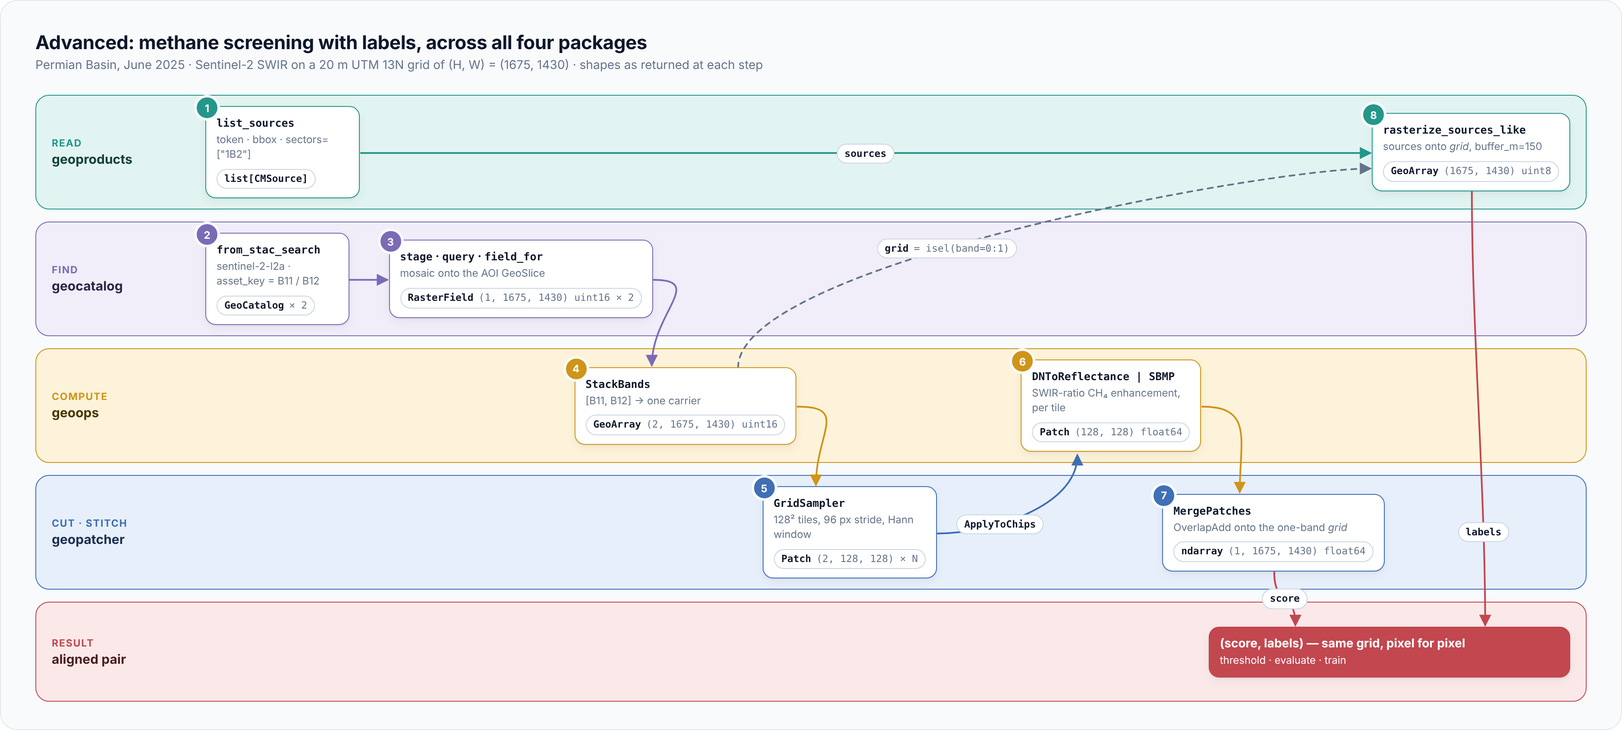
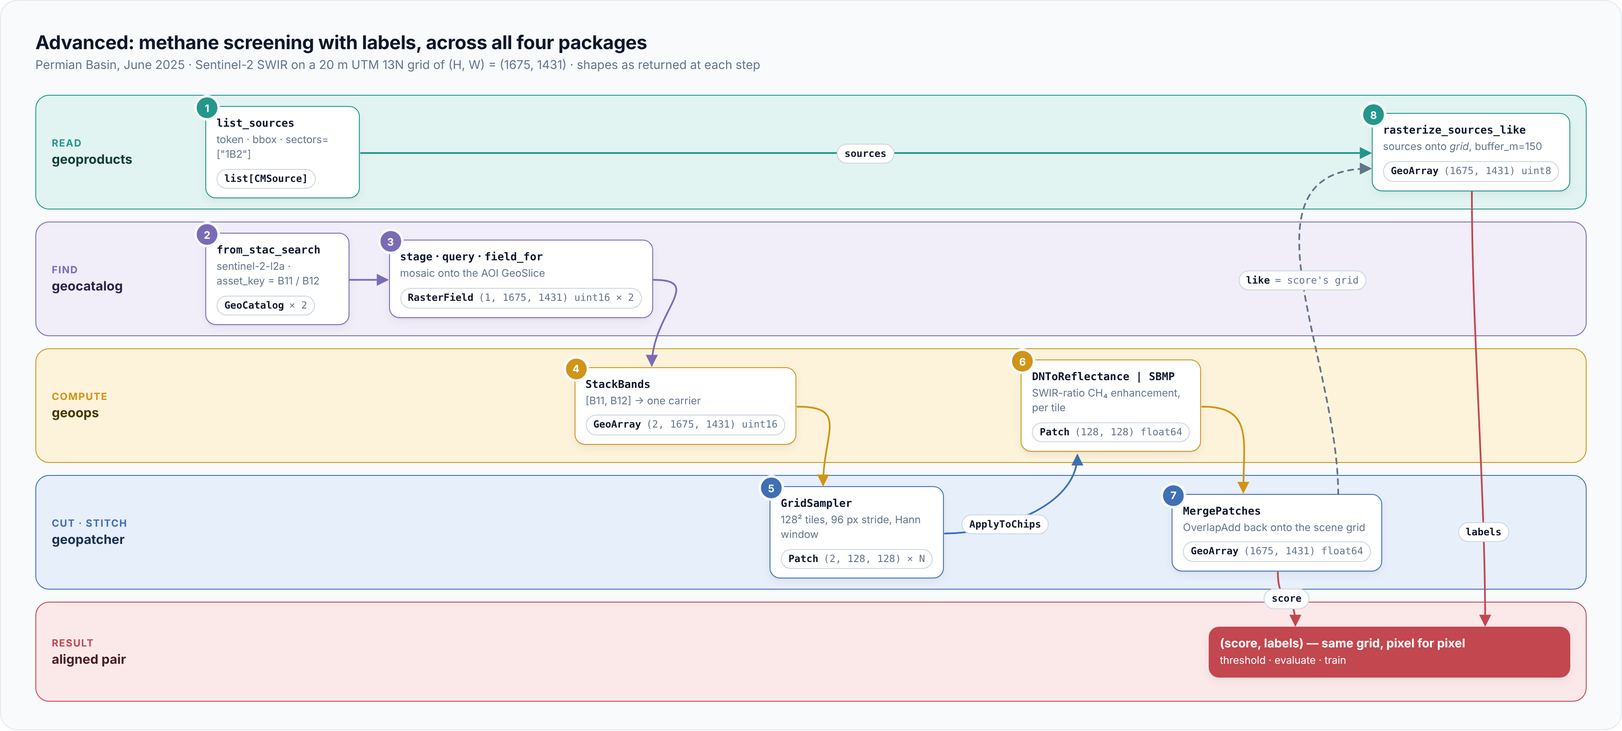
docs(diagrams): correct the existing diagrams against the code
Fact-checked every claim in the twelve diagrams against the packages:
the AOI grid is (1675, 1431), MergePatches returns an (H, W) GeoArray,
GeoSlice.align and interval, merge_to_field, the patcher geometries and
streaming aggregation, PixelWindow field order, NDVI's red band, the
products namespaces, geocloud as the shared storage layer and pipekit
under geoarray. The docs code comments carry the same grid shape.

Claude-Session: https://claude.ai/code/session_01SfgMxYusmtAm4JSFXitLx1

diff --git a/docs/assets/diagrams/stack-layers.html b/docs/assets/diagrams/stack-layers.html
@@ -25,28 +25,28 @@
   .slab code { font-family: var(--mono); font-size: 12px; color: var(--ink); }
   #geoarray { grid-column: 1 / -1; border-color: #8b5cf6; background: #f5f3ff; }
   #geoarray .lib { color: #6d28d9; }
-  #geocloud { grid-column: 1 / 4; }
-  #pipekit { grid-column: 4 / -1; }
+  #geocloud { grid-column: 1 / -1; }
+  #pipekit { grid-column: 1 / -1; }
   .slab.cloud { border-color: #94a3b8; background: #f1f5f9; }
 </style>
 </head>
 <body>
 <div id="diagram">
   <div class="title">Dependency layers</div>
-  <div class="subtitle">A strict layering: every package stands on geotoolz-array, nothing depends back up, and every cross-package link is an opt-in extra.</div>
+  <div class="subtitle">A strict layering: every package stands on geotoolz-array, which stands on pipekit; nothing depends back up, and every cross-package link is an opt-in extra.</div>
 
   <div class="pkgs">
     <div class="pkg-card read" id="p-products">
       <div class="verb">read</div>
       <div class="dist">geotoolz-products</div>
       <div class="imp">import geoproducts</div>
-      <div class="one">ProductReader ABC + per-provider readers (GOES, Himawari, Carbon Mapper)</div>
+      <div class="one">ProductReader ABC + per-mission readers (GOES, Himawari); Carbon Mapper records and rasters</div>
     </div>
     <div class="pkg-card find" id="p-catalog">
       <div class="verb">find</div>
       <div class="dist">geotoolz-catalog</div>
       <div class="imp">import geocatalog</div>
-      <div class="one">GeoSlice queries over InMemory / DuckDB catalogs; STAC · CMR sources; loaders</div>
+      <div class="one">GeoSlice queries over InMemory / DuckDB catalogs; STAC · CMR · EarthAccess · GEE sources; staging; loaders</div>
     </div>
     <div class="pkg-card cut" id="p-patcher">
       <div class="verb">cut</div>
@@ -64,8 +64,8 @@
 
   <div class="slabs">
     <div class="slab cloud" id="geocloud"><span class="lib">geotoolz-cloud</span><span class="what"><code>import geocloud</code> — the one pooled <code>obstore</code> client per process · async COG reads (<code>CogSource</code>, <code>[cog]</code>)</span></div>
-    <div class="slab" id="pipekit"><span class="lib">pipekit</span><span class="what"><code>Operator</code> · <code>Graph</code></span></div>
     <div class="slab" id="geoarray"><span class="lib">geotoolz-array</span><span class="what"><code>import geoarray</code> — <code>GeoArray</code> · <code>Grid</code> · <code>RasterSource</code>, the carrier under all five packages (georeader is only an internal engine)</span></div>
+    <div class="slab" id="pipekit"><span class="lib">pipekit</span><span class="what"><code>Operator</code> · <code>Sequential</code> · <code>Graph</code> and pipekit-array's named arrays: under geoarray, and imported by geoops directly</span></div>
   </div>
 
   <div class="legend">
@@ -80,19 +80,16 @@
         label: "<span class='t'>[operators]</span><span class='s'>sensor presets</span>" });
   wire("p-catalog", "p-patcher", { from: "right", to: "left", dashed: true, color: X,
         label: "<span class='t'>[patch]</span>", dy: -18 });
-  wire("p-products", "geocloud", { from: "bottom", to: "top", dashed: true, color: X, toShift: -360,
+  wire("p-products", "geocloud", { from: "bottom", to: "top", dashed: true, color: X, toShift: -561,
         label: "<span class='t'>[goes] [himawari]</span>" });
-  wire("p-catalog", "geocloud", { from: "bottom", to: "top", dashed: true, color: X,
+  wire("p-catalog", "geocloud", { from: "bottom", to: "top", dashed: true, color: X, toShift: -187,
         label: "<span class='t'>[cloud]</span>" });
-  wire("p-geoops", "geocloud", { from: "bottom", to: "top", dashed: true, color: X, fromShift: -110, toShift: 470, dx: -95, dy: 14,
-        label: "<span class='t'>[cloud] [hdf5]</span>" });
-  wire("p-patcher", "geocloud", { from: "bottom", to: "top", dashed: true, color: X, fromShift: -40, toShift: 360,
+  wire("p-geoops", "geocloud", { from: "bottom", to: "top", dashed: true, color: X, toShift: 561, dx: -40,
+        label: "<span class='t'>[cloud] [hdf5] [hdf4] [netcdf]</span>" });
+  wire("p-patcher", "geocloud", { from: "bottom", to: "top", dashed: true, color: X, toShift: 187,
         label: "<span class='t'>[cog]</span>" });
   wire("p-geoops", "p-patcher", { from: "left", to: "right", dashed: true, color: X,
         label: "<span class='t'>[patch]</span>", dy: -18 });
-  wire("p-patcher", "pipekit", { from: "bottom", to: "top", dashed: true, color: X, fromShift: 60, toShift: -80, bend: 18,
-        label: "<span class='t'>[pipekit]</span>" });
-  wire("p-geoops", "pipekit", { from: "bottom", to: "top", color: "#475569", toShift: 40 });
   ready();
 </script>
 </body>

diff --git a/docs/assets/diagrams/methane-flow.html b/docs/assets/diagrams/methane-flow.html
@@ -31,7 +31,7 @@
 <body>
 <div id="diagram">
   <div class="title">Advanced: methane screening with labels, across all four packages</div>
-  <div class="subtitle">Permian Basin, June 2025 · Sentinel-2 SWIR on a 20 m UTM 13N grid of (H, W) = (1675, 1430) · shapes as returned at each step</div>
+  <div class="subtitle">Permian Basin, June 2025 · Sentinel-2 SWIR on a 20 m UTM 13N grid of (H, W) = (1675, 1431) · shapes as returned at each step</div>
 
   <div class="rows">
     <div class="row read">
@@ -44,7 +44,7 @@
       <div class="node c8" id="rasterize"><span class="step">8</span>
         <div class="name"><code>rasterize_sources_like</code></div>
         <div class="desc">sources onto <i>grid</i>, buffer_m=150</div>
-        <div class="chips"><span class="chip"><span class="t">GeoArray</span><span class="s">(1675, 1430) uint8</span></span></div>
+        <div class="chips"><span class="chip"><span class="t">GeoArray</span><span class="s">(1675, 1431) uint8</span></span></div>
       </div>
     </div>
 
@@ -58,7 +58,7 @@
       <div class="node c3" id="fieldfor"><span class="step">3</span>
         <div class="name"><code>stage</code> · <code>query</code> · <code>field_for</code></div>
         <div class="desc">mosaic onto the AOI GeoSlice</div>
-        <div class="chips"><span class="chip"><span class="t">RasterField</span><span class="s">(1, 1675, 1430) uint16 × 2</span></span></div>
+        <div class="chips"><span class="chip"><span class="t">RasterField</span><span class="s">(1, 1675, 1431) uint16 × 2</span></span></div>
       </div>
     </div>
 
@@ -67,7 +67,7 @@
       <div class="node c4" id="stack"><span class="step">4</span>
         <div class="name"><code>StackBands</code></div>
         <div class="desc">[B11, B12] → one carrier</div>
-        <div class="chips"><span class="chip"><span class="t">GeoArray</span><span class="s">(2, 1675, 1430) uint16</span></span></div>
+        <div class="chips"><span class="chip"><span class="t">GeoArray</span><span class="s">(2, 1675, 1431) uint16</span></span></div>
       </div>
       <div class="node c6" id="sbmp"><span class="step">6</span>
         <div class="name"><code>DNToReflectance | SBMP</code></div>
@@ -85,8 +85,8 @@
       </div>
       <div class="node c7" id="merge"><span class="step">7</span>
         <div class="name"><code>MergePatches</code></div>
-        <div class="desc">OverlapAdd onto the one-band <i>grid</i></div>
-        <div class="chips"><span class="chip"><span class="t">ndarray</span><span class="s">(1, 1675, 1430) float64</span></span></div>
+        <div class="desc">OverlapAdd back onto the scene grid</div>
+        <div class="chips"><span class="chip"><span class="t">GeoArray</span><span class="s">(1675, 1431) float64</span></span></div>
       </div>
     </div>
 
@@ -108,8 +108,8 @@
   wire("grid", "sbmp", { from: "right", to: "bottom", bend: 60, toShift: -40, color: B, label: "<span class='t'>ApplyToChips</span>", at: 0.35 });
   wire("sbmp", "merge", { from: "right", to: "top", bend: 60, toShift: -40, color: C });
   wire("sources", "rasterize", { color: R, label: "<span class='t'>sources</span>", at: 0.5 });
-  wire("stack", "rasterize", { from: "top", to: "left", dashed: true, color: "#64748b", fromShift: 60, toShift: 18, bend: 120,
-        label: "<span class='t'>grid</span><span class='s'>= isel(band=0:1)</span>", at: 0.42 });
+  wire("merge", "rasterize", { from: "top", to: "left", dashed: true, color: "#64748b", fromShift: 70, toShift: 18, bend: 160,
+        label: "<span class='t'>like</span><span class='s'>= score's grid</span>", at: 0.5 });
   wire("merge", "pair", { from: "bottom", to: "top", color: O, toShift: -110, bend: 40, label: "<span class='t'>score</span>" });
   wire("rasterize", "pair", { from: "bottom", to: "top", color: O, toShift: 110, bend: 160, label: "<span class='t'>labels</span>", at: 0.78 });
   ready();

diff --git a/docs/assets/diagrams/stack-overview.html b/docs/assets/diagrams/stack-overview.html
@@ -16,7 +16,7 @@
   .lane .node + .node { margin-top: 24px; }
   .base-row {
     display: grid;
-    grid-template-columns: 1fr 1fr;
+    grid-template-columns: 1fr 1fr 1fr;
     gap: 16px;
     margin-top: 34px;
   }
@@ -33,7 +33,7 @@
 <body>
 <div id="diagram">
   <div class="title">The geostack — find · read · cut · compute · stitch</div>
-  <div class="subtitle">Four packages, one carrier. Every arrow is a typed object you can hold in a variable.</div>
+  <div class="subtitle">Four stages over one carrier, one storage layer and one composition core. Every arrow is a typed object you can hold in a variable.</div>
 
   <div class="grid">
     <!-- column 1: find + read -->
@@ -46,14 +46,14 @@
         </div>
         <div class="node" id="catalog">
           <div class="name"><code>GeoCatalog</code></div>
-          <div class="desc">STAC · CMR · local files → InMemory or DuckDB index; <code>query()</code> opens no file</div>
+          <div class="desc">STAC · CMR · EarthAccess · GEE · local files → InMemory or DuckDB index; <code>query()</code> opens no file</div>
         </div>
       </div>
       <div class="lane read" id="lane-read">
         <div class="lane-head"><span class="verb">read</span><span class="pkg">geotoolz-products</span></div>
         <div class="node" id="reader">
           <div class="name"><code>ProductReader</code></div>
-          <div class="desc">one reader per mission or provider — <code>toy_sensor</code>, <code>carbonmapper</code> — each a <code>RasterSource</code> that reads <code>GeoArray</code>s</div>
+          <div class="desc">one reader per mission — <code>goes</code>, <code>himawari</code>, <code>toy_sensor</code> — each a <code>RasterSource</code> that reads <code>GeoArray</code>s; <code>carbonmapper</code> for plume and source records</div>
         </div>
       </div>
     </div>
@@ -90,19 +90,23 @@
       </div>
       <div class="node solid" id="result">
         <div class="name">result on the AOI grid</div>
-        <div class="desc">same CRS · transform · fill as the request</div>
+        <div class="desc">the request's CRS and transform · NaN where no patch reached</div>
       </div>
     </div>
   </div>
 
   <div class="base-row">
     <div class="slab">
+      <div class="lib">geotoolz-cloud</div>
+      <div class="what">the one pooled <code>obstore</code> client per bucket, credentials and file verbs: what <code>stage</code>, <code>CogField</code> and the GOES / Himawari readers fetch through.</div>
+    </div>
+    <div class="slab">
       <div class="lib">geotoolz-array</div>
       <div class="what"><code>GeoArray</code> — the array every reader returns and every operator takes; NumPy or JAX data carrying CRS, transform, band names and fill value end to end.</div>
     </div>
     <div class="slab">
       <div class="lib">pipekit</div>
-      <div class="what"><code>Operator</code> · <code>Sequential</code> · <code>Graph</code> — every step composes and serialises the same way; <code>patch_ops</code> turns split → operate → merge into one more <code>Sequential</code>.</div>
+      <div class="what"><code>Operator</code> · <code>Sequential</code> · <code>Graph</code> — every step composes the same way; <code>patch_ops</code> turns split → operate → merge into one more <code>Sequential</code>.</div>
     </div>
   </div>
 </div>

diff --git a/docs/assets/diagrams/catalog-flow.html b/docs/assets/diagrams/catalog-flow.html
@@ -31,7 +31,7 @@
       <div class="lane-head"><span class="verb">sources</span></div>
       <div class="stack">
         <div class="node find"><div class="name">STAC</div><div class="desc">Planetary Computer · Earth Search · any API</div></div>
-        <div class="node find"><div class="name">EarthAccess · GEE</div><div class="desc">NASA CMR · Earth Engine</div></div>
+        <div class="node find"><div class="name">CMR · EarthAccess · GEE</div><div class="desc">NASA CMR · earthaccess · Earth Engine</div></div>
         <div class="node find"><div class="name">local · s3:// · gs://</div><div class="desc">GeoTIFF · NetCDF · Zarr · vectors</div></div>
       </div>
     </div>
@@ -54,9 +54,9 @@
     <div class="lane find" id="load">
       <div class="lane-head"><span class="verb">load</span><span class="pkg">the hits only</span></div>
       <div class="stack">
-        <div class="node compute"><div class="name"><code>load_raster</code></div><div class="desc">mosaic onto the slice grid</div><div class="chips"><span class="chip"><span class="t">GeoArray</span><span class="s">(C, H, W)</span></span></div></div>
+        <div class="node compute"><div class="name"><code>load_raster</code></div><div class="desc">mosaic onto the slice grid; <code>load_raster_timeseries</code> for (T, C, H, W)</div><div class="chips"><span class="chip"><span class="t">GeoArray</span><span class="s">(C, H, W)</span></span></div></div>
         <div class="node compute"><div class="name"><code>load_vector</code></div><div class="desc">rasterise features onto the slice grid</div><div class="chips"><span class="chip"><span class="t">GeoMap</span><span class="s">(H, W)</span></span></div></div>
-        <div class="node cut"><div class="name"><code>patch.field_for</code></div><div class="desc">bridge to geopatcher · [patch] extra</div><div class="chips"><span class="chip"><span class="t">RasterField</span><span class="s">(C, H, W)</span></span></div></div>
+        <div class="node cut"><div class="name"><code>patch.field_for</code></div><div class="desc">after <code>staging.stage</code> makes local copies · [patch] extra</div><div class="chips"><span class="chip"><span class="t">RasterField</span><span class="s">(C, H, W)</span></span></div></div>
       </div>
     </div>
   </div>
@@ -64,10 +64,10 @@
   <div class="slice">
     <div class="label"><div class="k">GeoSlice</div><div class="d">the frozen request every catalog answers and every loader honours</div></div>
     <div class="field"><div class="n">bounds</div><div class="v">(xmin, ymin, xmax, ymax)</div></div>
-    <div class="field"><div class="n">interval</div><div class="v">pd.Interval(start, end)</div></div>
+    <div class="field"><div class="n">interval</div><div class="v">pd.Interval(start, end, closed="both")</div></div>
     <div class="field"><div class="n">resolution</div><div class="v">(10.0, 10.0)</div></div>
     <div class="field"><div class="n">crs</div><div class="v">"EPSG:32611"</div></div>
-    <div class="field"><div class="n">align</div><div class="v">"off" · exact grid snap</div></div>
+    <div class="field"><div class="n">align</div><div class="v">"off" · "warn" · "error" · "snap"</div></div>
   </div>
 </div>
 <script src="_connect.js"></script>

diff --git a/docs/assets/diagrams/patcher-axes.html b/docs/assets/diagrams/patcher-axes.html
@@ -6,7 +6,8 @@
 <link rel="stylesheet" href="_base.css">
 <style>
   #diagram { width: 1620px; }
-  .flow { display: grid; grid-template-columns: 250px 620px 200px 230px; column-gap: 70px; align-items: center; }
+  #out { margin-left: 40px; width: 214px; }
+  .flow { display: grid; grid-template-columns: 250px 620px 200px 230px; column-gap: 62px; align-items: center; }
   .scene svg { display: block; margin-top: 8px; border-radius: 8px; }
   .axes { display: grid; grid-template-columns: minmax(0, 1fr) minmax(0, 1fr); gap: 14px; }
   .axis { background: #fff; border: 1.5px solid var(--cut); border-radius: 12px; padding: 10px 12px; display: flex; gap: 12px; align-items: center; }
@@ -46,7 +47,7 @@
       <div class="axes">
         <div class="axis">
           <svg width="46" height="46" viewBox="0 0 46 46"><rect x="4" y="4" width="22" height="22" rx="2" fill="#e7effb" stroke="#3f6fb5" stroke-width="2"/><circle cx="32" cy="32" r="11" fill="#e7effb" stroke="#3f6fb5" stroke-width="2"/></svg>
-          <div><div class="k">Geometry</div><div class="n">spatial.geometry.<br>Rectangular(<br>&nbsp;&nbsp;size=(256, 256))</div><div class="o">shape of the neighbourhood — rectangle · disk · graph · polygon</div></div>
+          <div><div class="k">Geometry</div><div class="n">spatial.geometry.<br>Rectangular(<br>&nbsp;&nbsp;size=(256, 256))</div><div class="o">shape of the neighbourhood — Rectangular · SphericalCap · KNNGraph · RadiusGraph · PolygonIntersection</div></div>
         </div>
         <div class="axis">
           <svg width="46" height="46" viewBox="0 0 46 46"><g fill="#3f6fb5"><circle cx="9" cy="9" r="3"/><circle cx="23" cy="9" r="3"/><circle cx="37" cy="9" r="3"/><circle cx="9" cy="23" r="3"/><circle cx="23" cy="23" r="3"/><circle cx="37" cy="23" r="3"/><circle cx="9" cy="37" r="3"/><circle cx="23" cy="37" r="3"/><circle cx="37" cy="37" r="3"/></g></svg>
@@ -58,7 +59,7 @@
         </div>
         <div class="axis">
           <svg width="46" height="46" viewBox="0 0 46 46"><path d="M3 38 C 9 38, 10 12, 16 12 S 24 38, 29 38" fill="none" stroke="#94a3b8" stroke-width="1.5"/><path d="M17 38 C 23 38, 24 12, 30 12 S 38 38, 43 38" fill="none" stroke="#94a3b8" stroke-width="1.5"/><line x1="3" y1="20" x2="43" y2="20" stroke="#3f6fb5" stroke-width="2.5"/></svg>
-          <div><div class="k">Aggregation</div><div class="n">spatial.aggregation.<br>OverlapAdd()</div><div class="o">local → global merge — OverlapAdd · Mean · WeightedSum; streaming=True writes zarr</div></div>
+          <div><div class="k">Aggregation</div><div class="n">spatial.aggregation.<br>OverlapAdd()</div><div class="o">local → global merge — OverlapAdd · Mean · WeightedSum · MeanStd; OverlapAdd(streaming=True, target_path=…) writes zarr or a COG</div></div>
         </div>
       </div>
     </div>
@@ -79,7 +80,7 @@
   const B = "#3f6fb5";
   wire("field", "patcher", { color: B, label: "<span class='t'>split(field)</span>" });
   wire("patcher", "op", { color: B, label: "<span class='t'>Patch</span><span class='s'>× N</span>" });
-  wire("op", "out", { color: "#cf9418", label: "<span class='t'>merge</span>" });
+  wire("op", "out", { color: "#cf9418", label: "<span class='t'>merge_to_field</span>" });
   ready();
 </script>
 </body>

diff --git a/docs/assets/diagrams/products-architecture.html b/docs/assets/diagrams/products-architecture.html
@@ -33,31 +33,31 @@
         <div class="surface">
           <code>net · s3 — retries · rate limits · anonymous buckets</code>
           <code>files · credentials — atomic writes · tokens</code>
-          <code>hdf — CF-packed variables · flag tables</code>
+          <code>hdf — PackedGridReader · flag tables</code>
           <code>geostationary — fixed grids · Earth-disk mask</code>
           <code>presets — Recipe · RGB / operator builders</code>
+          <code>stack — any readers → one grid</code>
         </div>
       </div>
 
       <div class="node read" id="ns">
         <div class="name">one namespace per product</div>
-        <div class="desc">the same small surface, whatever the mission, format or API</div>
+        <div class="desc">the same small surface for each imager, whatever the format or API</div>
         <div class="ns">
           <span class="chip"><span class="t">Reader</span><span class="s">· L2Reader — lazy, calibrated</span></span>
-          <span class="chip"><span class="t">aws · api</span><span class="s">list · download</span></span>
+          <span class="chip"><span class="t">aws</span><span class="s">list_files · download</span></span>
           <span class="chip"><span class="t">BANDS · constants</span></span>
           <span class="chip"><span class="t">recipes</span><span class="s">RGBs as data</span></span>
           <span class="chip"><span class="t">presets</span><span class="s">[operators]</span></span>
-          <span class="chip"><span class="t">stack</span><span class="s">any readers → one grid</span></span>
         </div>
-        <div class="examples">e.g. <code>goes</code> · <code>himawari</code> · <code>carbonmapper</code> · <code>toy_sensor</code> — each behind its own extra</div>
+        <div class="examples"><code>goes</code> · <code>himawari</code> <code>[goes]</code> <code>[himawari]</code> · <code>toy_sensor</code> · <code>carbonmapper</code> <code>[carbonmapper]</code> (its own API client and rasters)</div>
       </div>
 
       <div class="node read abc" id="abc">
         <div class="name"><code>ProductReader</code> <span style="font-weight:500;color:var(--muted)">(geoarray RasterSource, ABC)</span></div>
         <div class="surface">
           <code>grid · crs · transform · shape · bounds</code>
-          <code>band_names · dtype · fill_value</code>
+          <code>bands · attrs · dtype · fill_value</code>
           <code>read_window / load / read_from_bounds</code>
           <code>_read_window(PixelWindow) — lazy, boundless</code>
           <code>files via geocloud — local or s3://</code>

diff --git a/docs/assets/diagrams/geoarray-carrier.html b/docs/assets/diagrams/geoarray-carrier.html
@@ -61,15 +61,15 @@
       <div class="colhead">what the split buys</div>
       <div class="stackcol" style="gap:26px">
         <div class="node jax" id="trace"><div class="name"><code>jax.jit</code> · <code>jax.grad</code> · <code>jax.vmap</code></div><div class="desc">gradients reach the georeferencing; <code>map_over</code> maps a named dim, with one transform per patch, (P, 6), in one trace</div></div>
-        <div class="node static" id="cache"><div class="name">the compile cache</div><div class="desc">a new transform or new dates (another scene, another patch) reuse the compiled code; new dims, coords, CRS, shape or attrs compile once more</div></div>
-        <div class="node np" id="np"><div class="name">NumPy</div><div class="desc"><code>np.asarray(g)</code> is the data, so NumPy code keeps working; <code>to_jax</code> / <code>to_numpy</code> move between backends</div></div>
+        <div class="node static" id="cache"><div class="name">the compile cache</div><div class="desc">a new transform or new dates (another scene, another patch) reuse the compiled code; new dims, coords, CRS, fill, shape or attrs compile once more</div></div>
+        <div class="node np" id="np"><div class="name">NumPy</div><div class="desc"><code>np.asarray(g)</code> is the data, so eager NumPy code keeps working (a JAX carrier is copied to the host); <code>to_jax</code> / <code>to_numpy</code> move between backends</div></div>
       </div>
     </div>
   </div>
 
   <div class="row2">
     <div class="node geom" id="grid"><div class="name"><code>Grid</code> · geometry without pixels</div><div class="desc">transform, CRS and (H, W): hashable, so a warp target or static config · <code>bounds</code> · <code>res</code> · <code>shift</code> · <code>isclose</code></div></div>
-    <div class="node geom" id="window"><div class="name"><code>PixelWindow</code></div><div class="desc">a rectangle of pixels on a grid: row_off, col_off, height, width — rasterio's Window without rasterio</div></div>
+    <div class="node geom" id="window"><div class="name"><code>PixelWindow</code></div><div class="desc">a rectangle of pixels on a grid: col_off, row_off, width, height — rasterio's Window without rasterio</div></div>
   </div>
 
   <div class="legend">

diff --git a/docs/assets/diagrams/cloud-pool.html b/docs/assets/diagrams/cloud-pool.html
@@ -56,8 +56,8 @@
       <div class="lane-head"><span class="verb">geocloud</span><span class="pkg">pool</span></div>
       <div class="stackcol">
         <div class="node" id="creds"><div class="name"><code>geocloud.credentials</code></div><div class="desc">one grant per bucket / container / host · TOML file · <code>redact</code></div></div>
-        <div class="node pool" id="store"><div class="name"><code>geocloud.store.get_obstore</code></div><div class="desc">built once per root, then reused (LRU); <code>mount</code> swaps in a test store; geoproducts readers take byte ranges here directly</div>
-          <div class="clients"><span>s3://sentinel-cogs → S3Store</span><span>s3://noaa-goes19 → S3Store</span><span>az://account/raw → AzureStore</span></div></div>
+        <div class="node pool" id="store"><div class="name"><code>geocloud.store.get_obstore</code></div><div class="desc">built once per root, then reused (LRU); <code>mount</code> swaps in a test store; <code>get_range_bytes</code> reads a byte range</div>
+          <div class="clients"><span>s3://sentinel-cogs → S3Store</span><span>s3://noaa-goes19 → S3Store</span><span>gs://bucket/zarr → GCSStore</span><span>az://account/raw → AzureStore</span></div></div>
         <div class="node gdal" id="gdal"><div class="name"><code>gdal_access(uri)</code></div><div class="desc">the same grant as a GDAL path + options, for rasterio and GDAL readers</div></div>
       </div>
     </div>

diff --git a/docs/assets/diagrams/control-flow.html b/docs/assets/diagrams/control-flow.html
@@ -40,8 +40,8 @@
       <div class="panel-head"><span class="k">Switch</span><span class="d"><code>key(x)</code> picks a case by name, else <code>default</code></span></div>
       <div class="flow">
         <div class="node io c1" id="w-in" style="grid-row: 1 / 4;"><div class="name">x</div><div class="desc">attrs["platform"]</div></div>
-        <div class="node compute c2" id="w-a" style="grid-row: 1;"><div class="name">"sentinel-2"</div><div class="desc">NDVI(nir="B8")</div></div>
-        <div class="node compute c2" id="w-b" style="grid-row: 2;"><div class="name">"landsat-8"</div><div class="desc">NDVI(nir="B5")</div></div>
+        <div class="node compute c2" id="w-a" style="grid-row: 1;"><div class="name">"sentinel-2"</div><div class="desc">NDVI(red="B4", nir="B8")</div></div>
+        <div class="node compute c2" id="w-b" style="grid-row: 2;"><div class="name">"landsat-8"</div><div class="desc">NDVI(red="B4", nir="B5")</div></div>
         <div class="node dim c2" id="w-d" style="grid-row: 3;"><div class="name">default</div><div class="desc">Identity() · x as is</div></div>
         <div class="node out c3" id="w-out" style="grid-row: 1 / 4;"><div class="name">y</div><div class="desc">per case: (H, W) NDVI, or x</div></div>
       </div>

diff --git a/docs/assets/diagrams/patcher-boundary.html b/docs/assets/diagrams/patcher-boundary.html
@@ -24,7 +24,7 @@
     <div class="panel"><div class="k">"pad"</div><div class="o">full 4 × 4 patch; overflow filled with nodata or <code>pad_value</code></div><svg id="pad"></svg></div>
     <div class="panel"><div class="k">"reflect"</div><div class="o">full 4 × 4 patch; overflow mirrored from the interior</div><svg id="reflect"></svg></div>
     <div class="panel"><div class="k">"shrink"</div><div class="o">patch clipped to the domain: 2 × 2 here, weights cropped to match</div><svg id="shrink"></svg></div>
-    <div class="panel"><div class="k">"raise"</div><div class="o"><code>split</code> raises <code>ValueError</code> on the first overflowing window</div><svg id="raise"></svg></div>
+    <div class="panel"><div class="k">"raise"</div><div class="o"><code>split</code> raises <code>ValueError</code> on the first overflowing window (<code>on_error="skip"</code> records it and moves on)</div><svg id="raise"></svg></div>
   </div>
   <div class="legend">
     <span><span class="sw" style="background:#8fb98a"></span>domain cells</span>

diff --git a/docs/assets/diagrams/geostack-intro.html b/docs/assets/diagrams/geostack-intro.html
@@ -54,10 +54,10 @@ const edge = (i) => X0 + CW * i;               // left edge of column i
 const ROW = [292, 412, 532];                   // patch rows (split → combine)
 const MID = ROW[1];
 const STAGES = [
-  ["Search", "STAC · CMR · s3://"],
+  ["Search", "STAC · CMR · GEE"],
   ["Catalog", "index once, query fast"],
   ["Save", "stage what you need"],
-  ["Stream", "lazy windows"],
+  ["Stream", "a Field to cut"],
   ["Split", "overlapping patches"],
   ["Apply", "operator per patch"],
   ["Combine", "window-weighted merge"],

diff --git a/README.md b/README.md
@@ -179,7 +179,7 @@ sources: list[cm.CMSource] = cm.list_sources(token, bbox=bbox_lonlat, sectors=["
 aoi: gc.GeoSlice = gc.GeoSlice(
     bounds=pyproj.Transformer.from_crs("EPSG:4326", utm, always_xy=True).transform_bounds(*bbox_lonlat),
     interval=pd.Interval(pd.Timestamp("2025-06-01"), pd.Timestamp("2025-06-30"), closed="both"),
-    resolution=(20.0, 20.0),                              # native SWIR → grid (H, W) = (1675, 1430)
+    resolution=(20.0, 20.0),                              # native SWIR → grid (H, W) = (1675, 1431)
     crs=utm,
 )
 client: pystac_client.Client = pystac_client.Client.open(
@@ -194,10 +194,10 @@ swir: dict[str, gp.RasterField] = {
             dest="./cache",
         ).query(aoi),
         aoi,
-    )                                                    # (1, 1675, 1430) uint16 per band
+    )                                                    # (1, 1675, 1431) uint16 per band
     for band in ("B11", "B12")                           # SWIR-1 ≈ 1610 nm · SWIR-2 ≈ 2190 nm
 }
-scene: GeoArray = gz.StackBands()([swir["B11"].reader, swir["B12"].reader])  # (2, 1675, 1430) uint16
+scene: GeoArray = gz.StackBands()([swir["B11"].reader, swir["B12"].reader])  # (2, 1675, 1431) uint16
 
 # 3 · patcher + operators — SWIR-ratio methane score, tile by tile
 patcher: gp.SpatialPatcher = gp.SpatialPatcher(
@@ -216,10 +216,10 @@ screen: gz.Sequential = gz.Sequential([
     ApplyToChips(operator=enhancement),                  # list[Patch] → list[Patch] (128, 128) each
     MergePatches(aggregation=gp.spatial.aggregation.OverlapAdd(), domain=field.domain),
 ])
-score: GeoArray = screen(field)                        # (1675, 1430) float64, on the scene's grid
+score: GeoArray = screen(field)                        # (1675, 1431) float64, on the scene's grid
 
 # 4 · products again — known sources rasterized onto the same grid as labels
-labels: GeoArray = cm.rasterize_sources_like(sources, score, buffer_m=150.0)  # (1675, 1430) uint8 {0, 1}
+labels: GeoArray = cm.rasterize_sources_like(sources, score, buffer_m=150.0)  # (1675, 1431) uint8 {0, 1}
 
 pair: tuple[np.ndarray, np.ndarray] = (np.asarray(score), np.asarray(labels))  # aligned pixel-for-pixel
 ```
